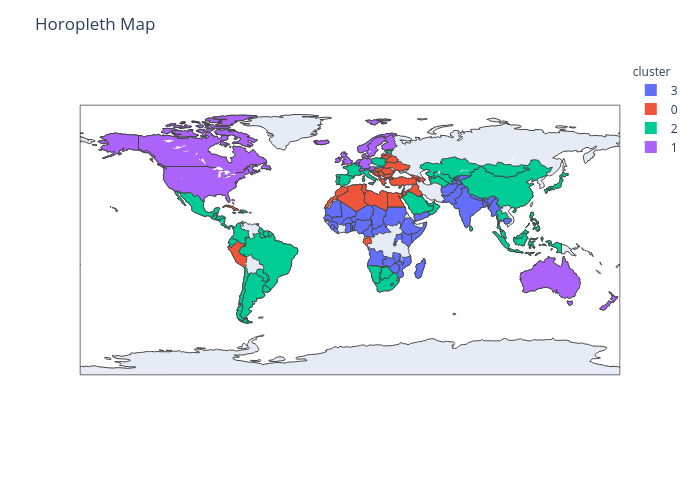
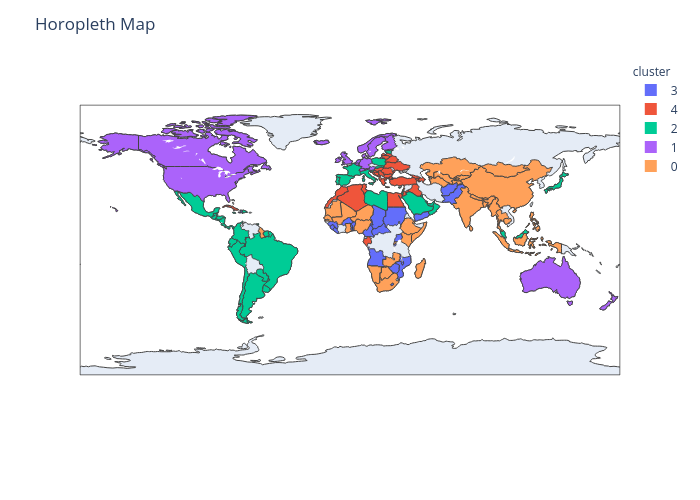
hhhhh

diff --git a/Clustering/clustering/classify.py b/Clustering/clustering/classify.py
@@ -7,6 +7,7 @@ import pycountry
 #import plotly.plotly as py
 import chart_studio.plotly as py
 import seaborn as sns
+import numpy as np
 
 
 class classify:
@@ -17,20 +18,25 @@ class classify:
     def KMean(self, countries, n_clusters = 3, n_init = 3):
         #np.random.seed(42)
         #inertia = []
-        #for i in range(2, n_clusters):
+        #for i in range(2, 50):
         #    kmeans = KMeans(n_clusters=i).fit(countries)
         #    inertia.append(kmeans.inertia_)
 
         # visualization of the model
-        #sns.pointplot(x=list(range(2, n_clusters)), y=inertia)
+        #sns.pointplot(x=list(range(2, 50)), y=inertia)
         #plt.title('SSE on K-Means based on # of clusters')
         #plt.show()
+        #for col_name in countries.columns:
+        #    if not col_name == "Generosity" and not col_name == "Social support":
+        #        print(col_name)
+        #        countries.drop(col_name, axis=1, inplace=True)
 
         kmeans = KMeans(n_clusters=n_clusters, n_init=n_init).fit(countries)
         centroids = kmeans.cluster_centers_
 
         plt.scatter(countries['Generosity'], countries['Social support'], c=kmeans.labels_.astype(float), s=50, alpha=0.5)
-        plt.scatter(centroids[:, 0], centroids[:, 1], c='red', s=50)
+        plt.scatter(centroids[:, 0], centroids[:, 1], c='red', s=40, alpha=0.8)
+        plt.legend()
         plt.title("Scatter Graph")
         plt.xlabel("Generosity")
         plt.ylabel("Social support")

diff --git a/Clustering/clustering/main.py b/Clustering/clustering/main.py
@@ -7,9 +7,9 @@ if __name__ == '__main__':
 
     p = preprocessor()
     df, countries, err_msg = p.preprocess('Dataset.xlsx')
-    # df, countries, err_msg = p.preprocess('C:\\Users\\שקד\\Documents\\business_intelligence\\Clustering\\Dataset.xlsx')
+     #df, countries, err_msg = p.preprocess('C:\\Users\\שקד\\Documents\\business_intelligence\\Clustering\\Dataset.xlsx')
     #print(df.columns)
     #cluster = classify()
-    #cluster.KMean(countries, 5, 3)
+    #cluster.KMean(countries, 2, 50)
     # print(len(countries))
 
